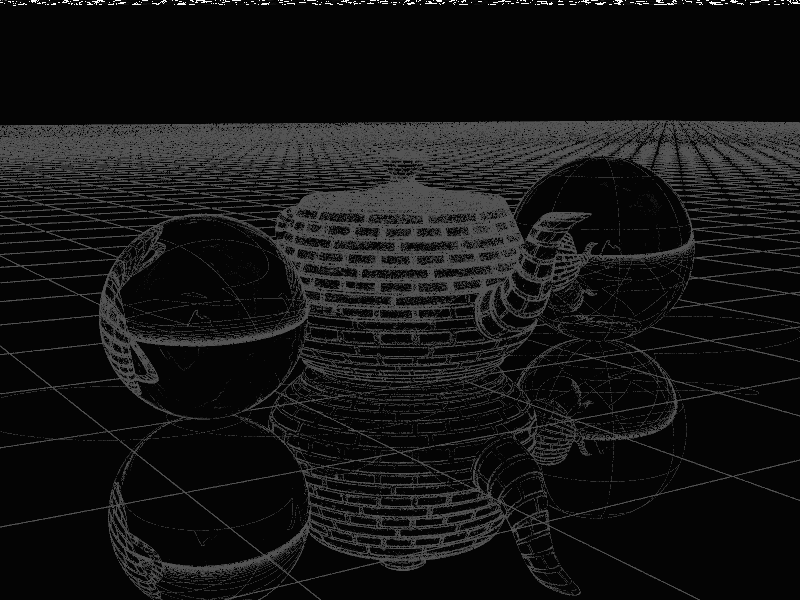
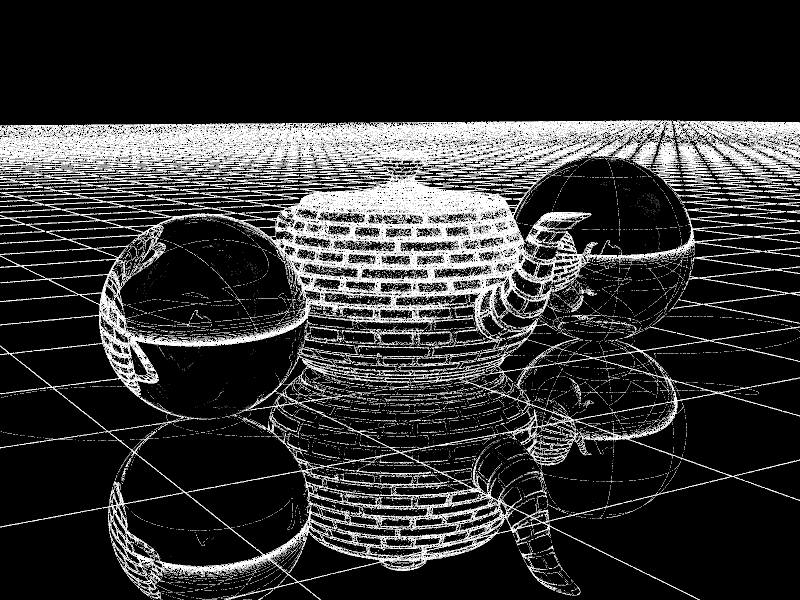
Update Sample image

diff --git a/cs6620/prj8.html b/cs6620/prj8.html
@@ -20,11 +20,9 @@
     <div align="center">
         <img src="prj8.png">
     </div>
-    <p align="center">There is some entirely black dot on the boundary of the sphere.</p>
     <div align="center">
         <img src="prj8_sample.png">
     </div>
-    <p align="center">On the top of the image, there are horizontal noise.</p>
     <h3 align="center">Buggy Images</h3>
     <div align="center">
         <img src="prj8_sample_bug.png">
